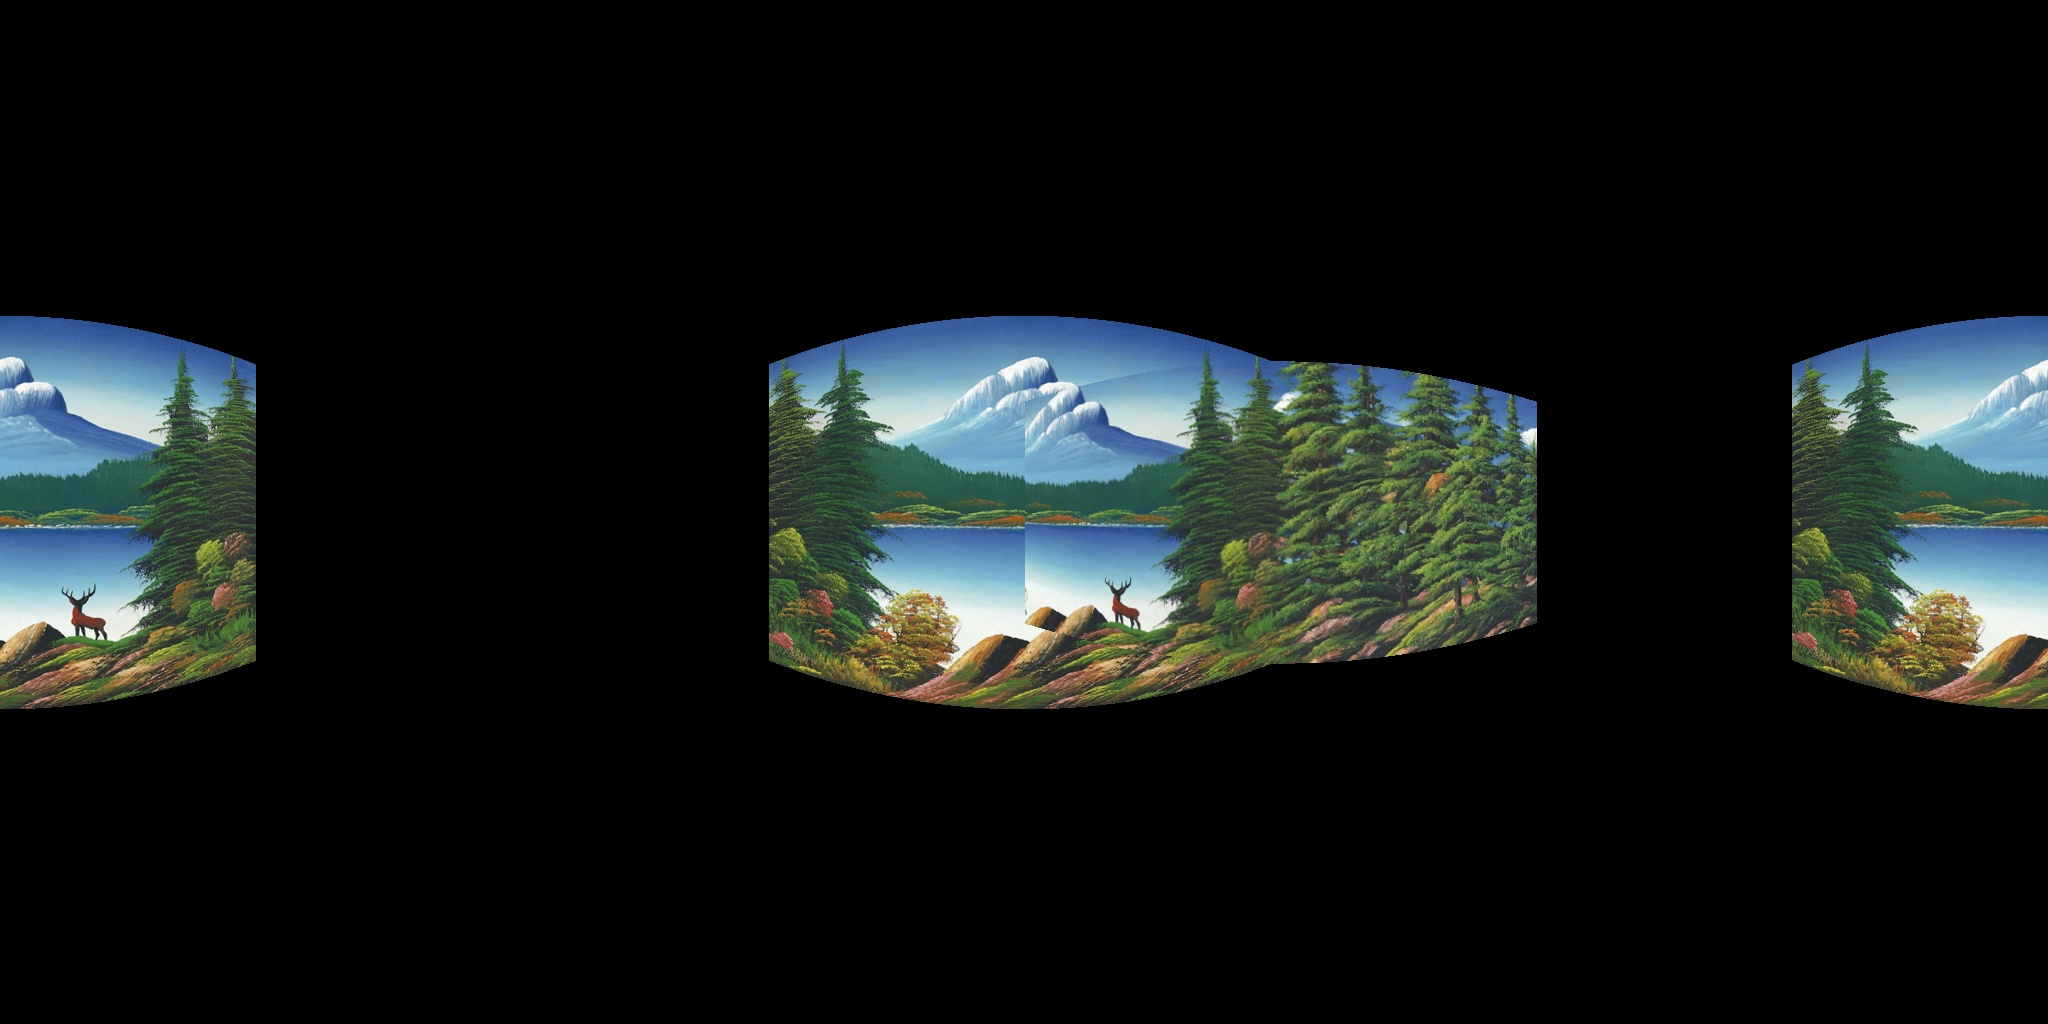
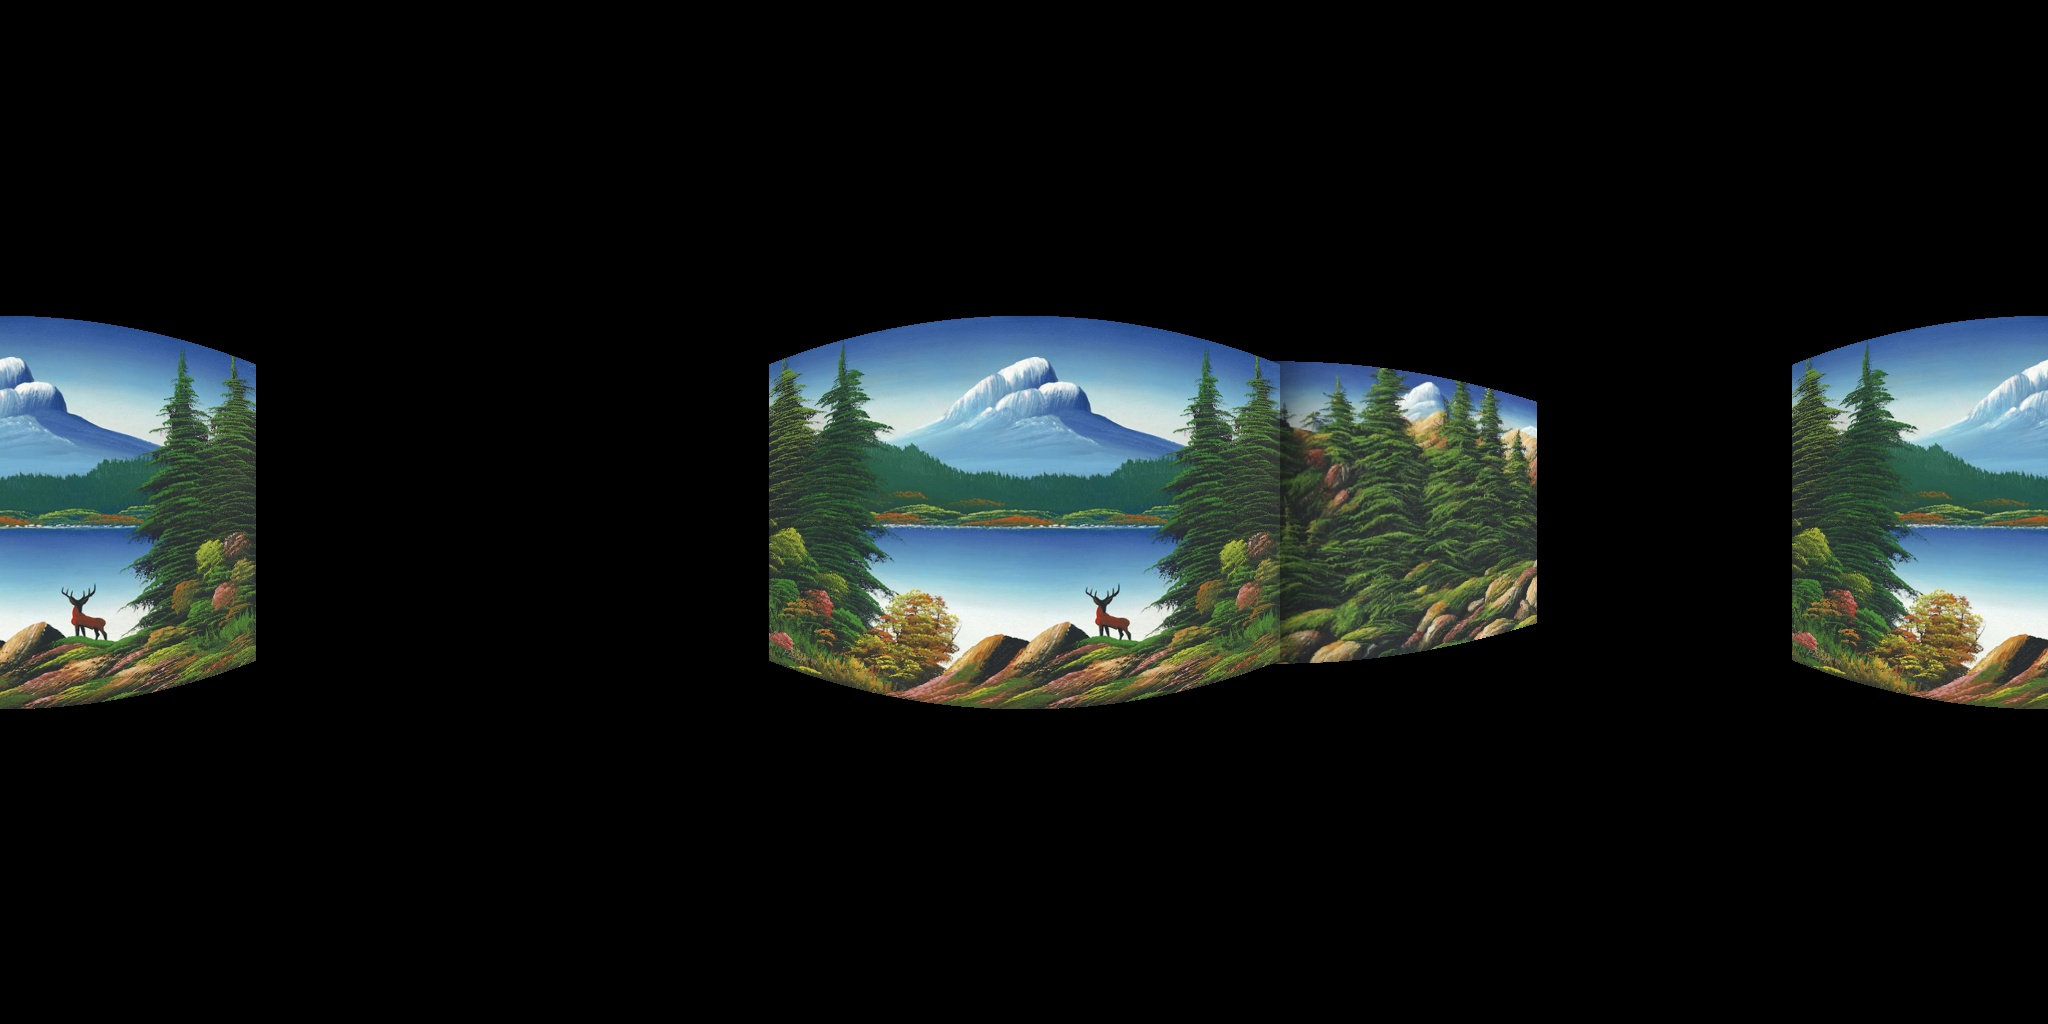
first iteration works

Changed region(s): [[0.5, 0.3438, 0.75, 0.6562]]

diff --git a/check_cycle.py b/check_cycle.py
@@ -9,7 +9,8 @@ from utils.persp_conv import (
     perspective_to_equirectangular
 )
 from utils.center_img import center_image
-from utils.inpaint import load_image_and_mask_from_black, inpaint_image
+from utils.inpaint import load_image_and_mask_from_black, load_soft_hard_masks_from_black, inpaint_image
+
 
 def save_pano_crop(
     pano_path: Union[str, Path],
@@ -53,8 +54,8 @@ persp = save_pano_crop(
     yaw=45,
     pitch=0,
     fov=90,
-    width=1280,
-    height=720,
+    width=1024,
+    height=512,
     bgr=True
 )
 cv2.imwrite("view.jpg", persp, [cv2.IMWRITE_JPEG_QUALITY, 95])
@@ -65,71 +66,108 @@ cyl = equirectangular_to_cylindrical(
     yaw=45,
     pitch=0,
     fov=90,
-    width=1600,
-    height=800
+    width=1024,
+    height=512
 )
 cv2.imwrite("flat.jpg", cyl)
 
 # 4) build mask from black regions and save
-image, mask = load_image_and_mask_from_black("flat.jpg", threshold=10)
-mask.save("mask.jpg")
+image, hard_mask, soft_mask = load_soft_hard_masks_from_black("flat.jpg", threshold=10)
+hard_mask.save("hard_mask.jpg")
+soft_mask.save("soft_mask.jpg")
 
+# result = inpaint_image(
+#     image=image,
+#     mask=soft_mask,
+#     prompt=(
+#         "Continue the alpine scene: pine trees and ground, "
+#         "matching the original artist’s soft brush strokes, lighting and color palette"
+#     ),
+#     guidance_scale=11.0,
+#     steps=50
+# )
 
-result = inpaint_image(
-    image=image,
-    mask=mask,
-    prompt=(
-        "Continue the alpine scene: pine trees and ground, "
-        "matching the original artist’s soft brush strokes, lighting and color palette"
-    ),
-    guidance_scale=11.0,
-    steps=50
-)
-
-result.save("wide_out.jpg")
-print(">> Wide_out.jpg written.")
-
-
+# result.save("wide_out.jpg")
 
 
 
 def blend_patch_into_pano(
-    pano: np.ndarray,          # (H, W, 3) current panorama (uint8)
-    tile: np.ndarray,      # (Hp, Wp, 3) freshly in-painted perspective view
-    yaw: float, pitch: float, fov: float,
+    pano: np.ndarray,
+    tile: Union[str, Path, np.ndarray, Image.Image],
+    hard_mask: Union[str, Path, Image.Image],  # likewise accept path or image
+    soft_mask: Union[str, Path, Image.Image],
+    yaw: float,
+    pitch: float,
+    fov: float
 ) -> np.ndarray:
     """
-    1. Re-project the perspective tile back onto equirectangular coords
-       using your `perspective_to_equirectangular`.
-    2. Build a soft alpha mask where the tile covers valid pixels.
-    3. Alpha-blend the tile into `pano` and return the new panorama.
+    pano      : (H, W, 3) uint8 panorama
+    tile      : path or PIL/np of the in-painted view
+    hard_mask : path or PIL image of the 0/255 mask
+    soft_mask : path or PIL image of the blurred mask
+    yaw,pitch,fov : same params used to render the tile
     """
 
-    if isinstance(tile, Image.Image):  # PIL ➜ np ➜ BGR
+    # 0) Load tile if it’s a path
+    if isinstance(tile, (str, Path)):
+        tile = Image.open(str(tile)).convert("RGB")
+
+    # 1) Convert tile to BGR numpy if PIL
+    if isinstance(tile, Image.Image):
         tile = cv2.cvtColor(np.asarray(tile), cv2.COLOR_RGB2BGR)
 
+    # 2) Load masks if they’re paths
+    if isinstance(hard_mask, (str, Path)):
+        hard_mask = Image.open(str(hard_mask)).convert("L")
+    if isinstance(soft_mask, (str, Path)):
+        soft_mask = Image.open(str(soft_mask)).convert("L")
+
+    # 3) Get pano dimensions
     H, W = pano.shape[:2]
 
-    H, W = pano.shape[:2]
-
-    # 1. warp tile back onto a blank equirect canvas
-
+    # 4) Reproject the in-painted tile back onto the panorama canvas
     patch = perspective_to_equirectangular(
         tile, yaw=yaw, pitch=pitch, fov=fov, width=W, height=H
     )
 
-    # 2. create a simple “valid-pixel” mask (anything non-zero)
-    mask = np.any(patch != 0, axis=-1)
+    # 5) Warp both masks back to pano
+    hm_arr = np.array(hard_mask, dtype=np.uint8)
+    sm_arr = np.array(soft_mask, dtype=np.uint8)
 
-    # 3. hard overwrite
-    pano[mask] = patch[mask]
-    return pano
+    # stack to 3-channel so we can reuse the same API
+    hm3 = np.stack([hm_arr]*3, axis=-1)
+    sm3 = np.stack([sm_arr]*3, axis=-1)
 
+    warped_hm3 = perspective_to_equirectangular(
+        hm3, yaw=yaw, pitch=pitch, fov=fov, width=W, height=H
+    )
+    warped_sm3 = perspective_to_equirectangular(
+        sm3, yaw=yaw, pitch=pitch, fov=fov, width=W, height=H
+    )
+
+    # 6) Extract single-channel boolean and float masks
+    warped_hard = warped_hm3[...,0] > 128             # boolean mask
+    warped_soft = warped_sm3[...,0].astype(np.float32) / 255.0  # 0..1
+
+    # 7) Build the final alpha: only inside the hard region, using the soft values
+    alpha = np.zeros((H, W), np.float32)
+    alpha[warped_hard] = warped_soft[warped_hard]
+    alpha = alpha[..., None]  # shape (H, W, 1)
+
+    # 8) Alpha-blend
+    pano_f  = pano.astype(np.float32)
+    patch_f = patch.astype(np.float32)
+    pano_new = pano_f * (1 - alpha) + patch_f * alpha
+
+    return pano_new.astype(np.uint8)
+
+
+# 3) Blend back
 pano0 = blend_patch_into_pano(
-    pano = pano,
-    tile = result,
-    yaw=45, pitch=0, fov=90,
-      
+    pano    = pano,
+    tile    = "wide_out.jpg",
+    hard_mask = hard_mask,
+    soft_mask = soft_mask,
+    yaw=45, pitch=0, fov=90
 )
-
 cv2.imwrite("pano0.jpg", pano0)

diff --git a/utils/inpaint.py b/utils/inpaint.py
@@ -35,7 +35,7 @@ def pad_and_create_mask_reflect(
 def load_image_and_mask_from_black(
     path: str,
     threshold: int = 10,
-    dilate_px: int = 32,      # NEW  ➜ overlap zone
+    dilate_px: int = 32,     
     feather: int = 64         # bigger feather
 ):
     image = Image.open(path).convert("RGB")
@@ -50,6 +50,35 @@ def load_image_and_mask_from_black(
     mask = Image.fromarray(grown * 255, mode="L")
     mask = mask.filter(ImageFilter.GaussianBlur(radius=feather))
     return image, mask
+
+def load_soft_hard_masks_from_black(
+    path: str,
+    threshold: int = 10,
+    dilate_px: int = 32,
+    feather: int = 64
+):
+    """
+    Returns:
+      image      : PIL RGB
+      hard_mask  : binary PIL L mask (0 or 255), after dilation
+      soft_mask  : blurred PIL L mask, used for alpha-blend
+    """
+    image = Image.open(path).convert("RGB")
+    arr   = np.array(image)
+
+    black = np.all(arr <= threshold, axis=2).astype(np.uint8)
+
+    # 1) Grow
+    kernel = cv2.getStructuringElement(cv2.MORPH_ELLIPSE, (dilate_px, dilate_px))
+    grown  = cv2.dilate(black, kernel, iterations=1)  # values 0 or 1
+
+    hard_mask = Image.fromarray((grown * 255).astype(np.uint8), mode="L")
+
+    # 2) Feather for alpha
+    soft_mask = hard_mask.filter(ImageFilter.GaussianBlur(radius=feather))
+
+    return image, hard_mask, soft_mask
+
 
 
 def inpaint_image(
